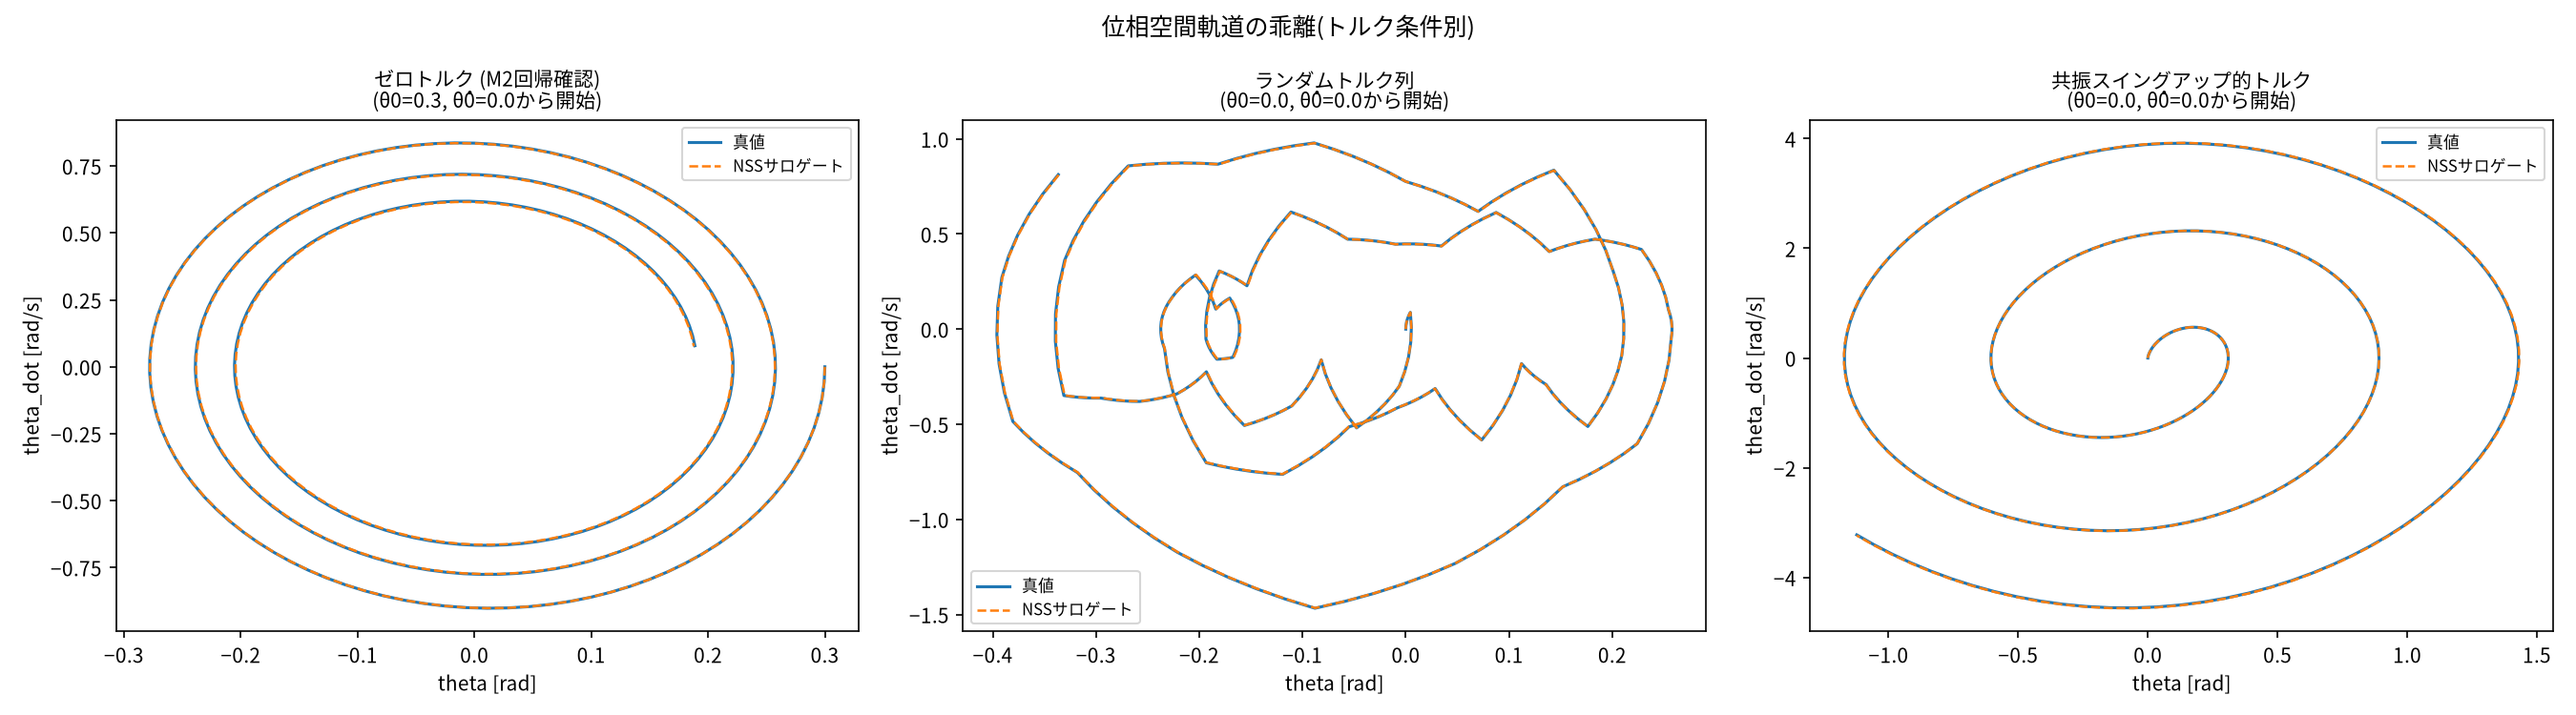
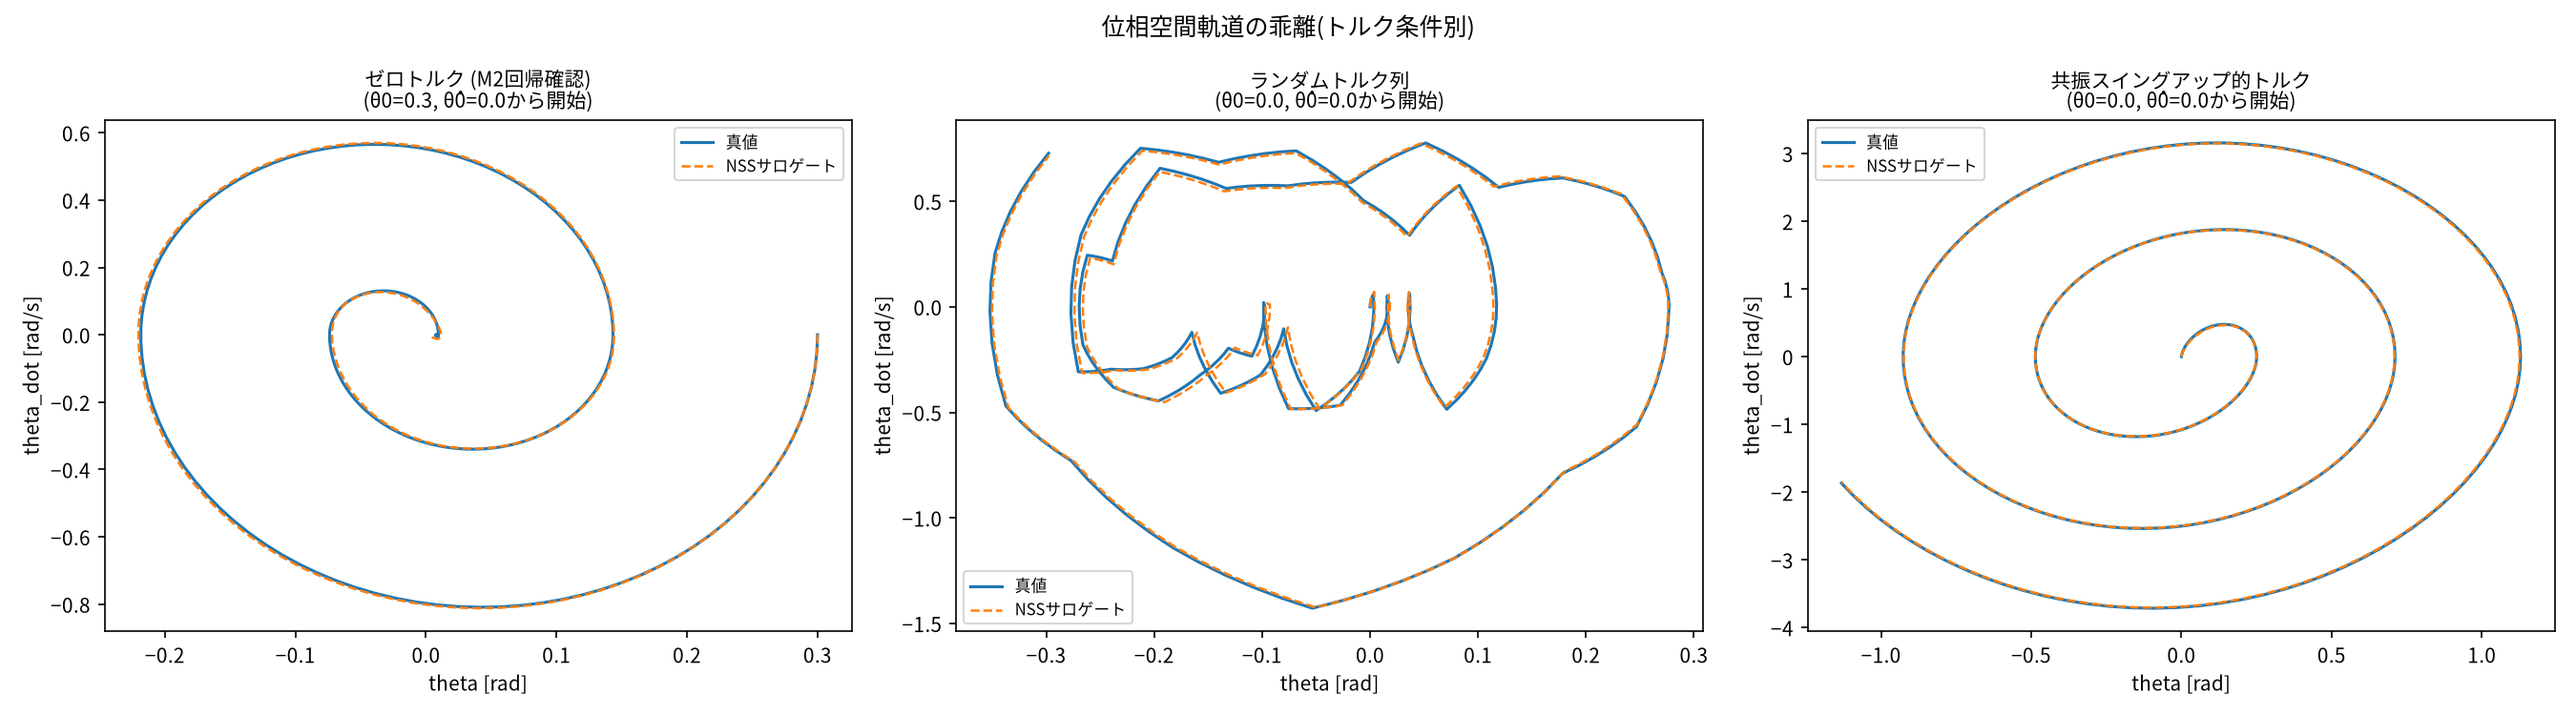
M15: 真の系にクーロン摩擦を追加し、グレーボックスを公平に再検証
M14の「グレーボックスと真のモデルの差は減衰項だけ」という自己循環的な
側面を解消するため、真の系にクーロン摩擦(乾摩擦、θ̇=0で不連続)を追加:
  theta_ddot = -(g/L)sinθ + τ/(mL²) - c·θ̇ - c_coulomb·sign(θ̇)
c_coulomb=0.3 はphysics.pyのモジュール定数とし、全呼び出し元が自動的に
同じ真の系を使うようにした(スクリプトごとの設定漏れによる不整合を防ぐ)。
グレーボックスの既知部分は変更していないため、NNは不連続な摩擦特性を
学ぶ必要がある。

結果(同一学習レシピでの比較):
- 開ループRMSE(t=6s): ブラックボックス 3.43/2.53/2.81 に対し
  グレーボックス 0.57/0.20/0.26(6〜12倍の優位)
- M5グリッドで真値の成功/失敗パターンと一致: 14/18 → 18/18(完全一致)
- M12スイープ: 両者とも15/15一致(摩擦増で失敗領域が明確になったため)
- MPC安定化誤差: グレーボックス0.0518、オラクル0.0699と同等以上

本当の未知項(しかも不連続)があってもグレーボックスの優位性は維持された。
学習された残差はクーロン摩擦のステップ状不連続までほぼ正確に再現している
(outputs/graybox_residual.png)。一方グレーボックスの誤差自体は悪化して
おり(ゼロトルク条件で0.17→0.57)、未知項が難しくなった分のコストは存在する。

摩擦なしの物理を前提としたテストは c_coulomb=0.0 を明示的に渡すよう更新。
M11のヤコビアン診断は滑らかな系についての診断であり、クーロン摩擦は
θ̇=0で微分不可能なため除外するようにした。

Refs #31

Claude-Session: https://claude.ai/code/session_01Rvrf6mcbh1UrexApn66z2b

diff --git a/src/physics.py b/src/physics.py
@@ -1,35 +1,62 @@
-"""振り子(減衰・トルク入力あり)の真値シミュレータ。
+"""振り子(減衰・クーロン摩擦・トルク入力あり)の真値シミュレータ。
 
 状態は x = [theta, theta_dot]。運動方程式:
-    theta_ddot = -(g / L) * sin(theta) - c * theta_dot + tau / (m * L^2)
+    theta_ddot = -(g / L) * sin(theta) - c * theta_dot
+                 - c_coulomb * sign(theta_dot) + tau / (m * L^2)
 
-c=0, tau=0 (デフォルト) で無減衰・無入力の単振り子(M1)に一致する。
-tau はステップ内で一定(ゼロ次ホールド)として扱う。
+M15 (#31) でクーロン摩擦(乾摩擦)項を追加した。これはグレーボックスモデルが
+既知として埋め込んでいない「本当の未知項」であり、不連続なためNNにとっても
+学習が難しい。モジュール定数 C_COULOMB をデフォルト値にすることで、全ての
+呼び出し元が自動的に同じ真の系を使う(スクリプトごとの設定漏れを防ぐ)。
+
+c=0, c_coulomb=0, tau=0 を明示的に渡せば、無減衰・無摩擦・無入力の単振り子
+(M1の系)に一致する。tau はステップ内で一定(ゼロ次ホールド)として扱う。
 """
 import numpy as np
 
 G = 9.81
 L = 1.0
 M = 1.0
-C = 0.0  # デフォルトは無減衰(M1と後方互換)
+C = 0.0  # 粘性減衰のデフォルトは0(M1と後方互換。学習・評価では0.15を明示的に渡す)
+C_COULOMB = 0.3  # クーロン摩擦(M15で追加。真の系の「未知項」として常に有効)
 TAU = 0.0  # デフォルトは無入力(M1/M2と後方互換)
 
 
-def dynamics(state: np.ndarray, c: float = C, tau: float = TAU, m: float = M) -> np.ndarray:
+def friction_acceleration(theta_dot: np.ndarray, c: float, c_coulomb: float) -> np.ndarray:
+    """摩擦による加速度(粘性 + クーロン)。グレーボックスが学ぶべき未知項。"""
+    return -c * theta_dot - c_coulomb * np.sign(theta_dot)
+
+
+def dynamics(
+    state: np.ndarray,
+    c: float = C,
+    tau: float = TAU,
+    m: float = M,
+    c_coulomb: float = C_COULOMB,
+) -> np.ndarray:
     """状態の時間微分 dx/dt を返す。state: shape (..., 2)。tau はスカラーまたは (...,) 形状。"""
     theta, theta_dot = state[..., 0], state[..., 1]
-    theta_ddot = -(G / L) * np.sin(theta) - c * theta_dot + tau / (m * L**2)
+    theta_ddot = (
+        -(G / L) * np.sin(theta)
+        + friction_acceleration(theta_dot, c, c_coulomb)
+        + tau / (m * L**2)
+    )
     return np.stack([theta_dot, theta_ddot], axis=-1)
 
 
 def rk4_step(
-    state: np.ndarray, dt: float, c: float = C, tau: float = TAU, m: float = M
+    state: np.ndarray,
+    dt: float,
+    c: float = C,
+    tau: float = TAU,
+    m: float = M,
+    c_coulomb: float = C_COULOMB,
 ) -> np.ndarray:
     """RK4で1ステップ積分する。tau はこのステップ内で一定とみなす。"""
-    k1 = dynamics(state, c, tau, m)
-    k2 = dynamics(state + 0.5 * dt * k1, c, tau, m)
-    k3 = dynamics(state + 0.5 * dt * k2, c, tau, m)
-    k4 = dynamics(state + dt * k3, c, tau, m)
+    k1 = dynamics(state, c, tau, m, c_coulomb)
+    k2 = dynamics(state + 0.5 * dt * k1, c, tau, m, c_coulomb)
+    k3 = dynamics(state + 0.5 * dt * k2, c, tau, m, c_coulomb)
+    k4 = dynamics(state + dt * k3, c, tau, m, c_coulomb)
     return state + (dt / 6.0) * (k1 + 2 * k2 + 2 * k3 + k4)
 
 
@@ -40,6 +67,7 @@ def simulate(
     c: float = C,
     tau: np.ndarray | float = TAU,
     m: float = M,
+    c_coulomb: float = C_COULOMB,
 ) -> np.ndarray:
     """初期状態から n_steps + 1 点の軌道を生成する。
 
@@ -51,7 +79,7 @@ def simulate(
     traj = [initial_state]
     state = initial_state
     for t in range(n_steps):
-        state = rk4_step(state, dt, c, tau_seq[t], m)
+        state = rk4_step(state, dt, c, tau_seq[t], m, c_coulomb)
         traj.append(state)
     return np.stack(traj, axis=0)
 

diff --git a/src/evaluate_graybox.py b/src/evaluate_graybox.py
@@ -7,6 +7,7 @@
 1. M3の3トルク条件での開ループロールアウトRMSE(t=6s時点)
 2. M12の角速度スイープ(PID回復挙動が真値の失敗パターンと一致するか)
 3. M5の18通りグリッドでのPID安定化成功数
+4. (M15〜) グレーボックスが学習した残差 vs 真の摩擦特性
 """
 import matplotlib
 
@@ -30,6 +31,7 @@ from src.evaluate import (
 )
 from src.evaluate_pid import ANGLE_OFFSETS, VELOCITY_OFFSETS
 from src.model import AutoregressiveModel, GrayBoxNSSModel, NSSModel
+from src.physics import C_COULOMB, friction_acceleration
 from src.pid import angular_error_to_inverted, run_pid_surrogate, run_pid_true
 from src.rollout import rmse_curve, true_rollout
 from src.train import CURRICULUM, DAMPING, SEED, train
@@ -119,6 +121,39 @@ def plot_comparison(
     print(f"saved {OUT_DIR}/graybox_comparison.png")
 
 
+def plot_learned_residual(graybox: GrayBoxNSSModel) -> None:
+    """グレーボックスが学習した残差加速度と、真の摩擦特性を重ねて比較する。
+
+    真の未知項は粘性摩擦 + クーロン摩擦 = -c*theta_dot - c_coulomb*sign(theta_dot) で、
+    theta_dot=0 で不連続。NNがこの不連続をどこまで再現できるかを見る。
+    """
+    theta_dot_grid = np.linspace(-6.0, 6.0, 601)
+    truth = friction_acceleration(theta_dot_grid, DAMPING, C_COULOMB)
+
+    plt.figure(figsize=(7, 4.5))
+    plt.plot(theta_dot_grid, truth, label="真の摩擦特性", linewidth=2)
+    for theta, tau in [(0.0, 0.0), (np.pi, 0.0), (1.5, 3.0)]:
+        states = np.stack(
+            [np.full_like(theta_dot_grid, theta), theta_dot_grid], axis=-1
+        )
+        with torch.no_grad():
+            learned = graybox.residual_acceleration(
+                torch.as_tensor(states, dtype=torch.float32),
+                torch.full((len(theta_dot_grid), 1), tau, dtype=torch.float32),
+            ).numpy()
+        plt.plot(theta_dot_grid, learned, "--", linewidth=1,
+                 label=f"学習された残差 (θ={theta:.1f}, τ={tau:.0f})")
+
+    plt.xlabel("theta_dot [rad/s]")
+    plt.ylabel("残差加速度 [rad/s²]")
+    plt.title("グレーボックスが学習した残差 vs 真の摩擦特性(粘性+クーロン)")
+    plt.legend(fontsize=8)
+    plt.tight_layout()
+    plt.savefig(f"{OUT_DIR}/graybox_residual.png", dpi=150)
+    plt.close()
+    print(f"saved {OUT_DIR}/graybox_residual.png")
+
+
 if __name__ == "__main__":
     torch.manual_seed(SEED)
     np.random.seed(SEED)
@@ -140,6 +175,7 @@ if __name__ == "__main__":
     graybox_grid = grid_errors(graybox)
 
     plot_comparison(true_sweep, blackbox_sweep, graybox_sweep, blackbox_rmse, graybox_rmse)
+    plot_learned_residual(graybox)
 
     print("\n=== 1. 開ループロールアウトRMSE (t=6s) ===")
     for label in blackbox_rmse:

diff --git a/tests/test_physics.py b/tests/test_physics.py
@@ -10,7 +10,7 @@ def test_energy_conservation_undamped():
     initial_state = np.array([1.0, 0.0])  # theta=1rad, theta_dot=0
     dt = 0.01
     n_steps = 2000  # 20秒分
-    traj = simulate(initial_state, dt, n_steps)
+    traj = simulate(initial_state, dt, n_steps, c=0.0, c_coulomb=0.0)
 
     e = energy(traj)
     e0 = e[0]
@@ -22,7 +22,7 @@ def test_energy_conservation_undamped():
 def test_stable_equilibrium_is_fixed_point():
     """theta=0, theta_dot=0 は不動点であること。"""
     initial_state = np.array([0.0, 0.0])
-    traj = simulate(initial_state, dt=0.01, n_steps=100)
+    traj = simulate(initial_state, dt=0.01, n_steps=100, c=0.0, c_coulomb=0.0)
     assert np.allclose(traj, 0.0)
 
 
@@ -31,7 +31,7 @@ def test_energy_monotonically_decreases_when_damped():
     initial_state = np.array([2.0, 1.0])
     dt = 0.01
     n_steps = 2000
-    traj = simulate(initial_state, dt, n_steps, c=C_DAMPED)
+    traj = simulate(initial_state, dt, n_steps, c=C_DAMPED, c_coulomb=0.0)
 
     e = energy(traj)
     assert np.all(np.diff(e) <= 1e-9)
@@ -47,7 +47,7 @@ def test_constant_torque_matches_work_energy_theorem():
     dt = 0.005
     n_steps = 400
     tau = 1.5
-    traj = simulate(initial_state, dt, n_steps, c=0.0, tau=tau)
+    traj = simulate(initial_state, dt, n_steps, c=0.0, tau=tau, c_coulomb=0.0)
 
     e = energy(traj)
     delta_e = e[-1] - e[0]

diff --git a/src/diagnose_linearization.py b/src/diagnose_linearization.py
@@ -35,11 +35,16 @@ REGRESSION_WINDOW = 50
 
 
 def true_jacobian() -> tuple[np.ndarray, np.ndarray]:
-    """真の物理モデル(rk4_step)を有限差分で線形化する。"""
+    """真の物理モデル(rk4_step)を有限差分で線形化する。
+
+    M15 (#31) で追加したクーロン摩擦は theta_dot=0 で微分不可能であり、倒立平衡点
+    (theta_dot=0)での有限差分が発散する。M11のこの診断は「滑らかな系の局所線形化」を
+    比較するものなので、クーロン摩擦は除外して評価する。
+    """
     eps = 1e-6
 
     def f(state: np.ndarray, tau: float) -> np.ndarray:
-        return rk4_step(state, DT, c=DAMPING, tau=tau)
+        return rk4_step(state, DT, c=DAMPING, tau=tau, c_coulomb=0.0)
 
     f0 = f(EQUILIBRIUM_STATE, EQUILIBRIUM_TAU)
     A = np.zeros((2, 2))

diff --git a/tests/test_model_graybox.py b/tests/test_model_graybox.py
@@ -28,7 +28,7 @@ def test_zero_residual_matches_known_physics():
 
         with torch.no_grad():
             predicted = model.step(state, u).numpy()
-        expected = rk4_step(np.array([theta, theta_dot]), dt, c=0.0, tau=tau)
+        expected = rk4_step(np.array([theta, theta_dot]), dt, c=0.0, tau=tau, c_coulomb=0.0)
 
         assert np.allclose(predicted, expected, atol=1e-5)
 

diff --git a/LESSONS.md b/LESSONS.md
@@ -150,10 +150,38 @@ model-based RL文献でいう "objective mismatch problem" の具体的な実例
 - theta を atan2 で毎ステップ畳み込まないため、出力が連続になり、M5/M6で悩まされた
   プロット上のブランチカット由来のジャンプも構造的に発生しない
 
+### M14の留保と、M15での検証
+
+M14の時点では**グレーボックスと真のモデルの差は減衰項 `-c·θ̇` のみ**であり、NNに
+残された仕事は「1次元の線形関数を当てる」ことだけだった(学習された残差は実測で
+全点 `-0.15·θ̇` と誤差±0.007以内)。つまりM14の桁違いの改善は、学習問題をほぼ自明に
+した結果という自己循環的な側面が大きかった。
+
+そこでM15 (#31) では、真の系に**グレーボックスが既知として持たないクーロン摩擦
+(乾摩擦、`-c_coulomb·sign(θ̇)`、θ̇=0で不連続)** を追加し、本当の未知項がある状況で
+再検証した。結果:
+
+| 指標 | ブラックボックス | グレーボックス |
+|---|---|---|
+| 開ループRMSE (ゼロトルク / ランダム / 共振) | 3.43 / 2.53 / 2.81 | **0.57 / 0.20 / 0.26** |
+| M5グリッドで真値の成功/失敗パターンと一致 | 14/18 | **18/18(完全一致)** |
+| M12スイープで真値パターンと一致 | 15/15 | 15/15 |
+| MPC安定化誤差 平均(オラクル=0.0699) | — | **0.0518** |
+
+**本当の未知項(しかも不連続)があってもグレーボックスの優位性は維持された**。NNは
+クーロン摩擦のステップ状の不連続までほぼ正確に再現しており、既知構造を埋め込むことで
+NNが「難しい部分だけ」に集中できるという狙いが機能している。ただしグレーボックスの
+誤差自体は悪化しており(ゼロトルク条件で0.17→0.57)、未知項が難しくなった分の
+コストは確かに存在する。
+
+9. **既知構造の埋め込みは、未知項が難しくなっても有効**(M15)。M14の優位性は
+   「未知項が自明に簡単だったから」ではなく、構造そのものの効果だと確認できた。
+
 ## 今後の課題
 
-- グレーボックス化で残る誤差(共振トルク条件のRMSE 0.54が他条件より大きい)の原因調査。
+- パラメータ誤差(真の系は `L=1.05, m=0.95` だがグレーボックスは `L=1.0, m=1.0` と
+  信じている)がある場合の検証。M15は「知らない項がある」ケースだったが、次は
+  「知っているつもりの項が間違っている」ケース。
 - アンサンブル+不確実性推定により「サロゲートが外挿している領域」を検出できるようにする
   (実機適用時の安全マージン設定に必要)。
-- 真の系の構造が未知/部分的にしか分からない場合にどこまでグレーボックス化できるか
-  (今回は真の方程式が既知という有利な条件だった点に注意)。
+- アクチュエータ遅れのような、状態に現れない内部ダイナミクスがある場合の検証。

diff --git a/README.md b/README.md
@@ -40,6 +40,11 @@ pip install -r requirements.txt
   MPC安定化誤差が0.269→0.0091(オラクルの0.0065とほぼ同等)に改善**し、M1-M13で
   繰り返し現れた失敗モード(エネルギー注入・楽観バイアス・非対称な失敗方向)が
   ほぼ解消。以降のデフォルトモデルは `GrayBoxNSSModel`。
+- **M15** (完了, #31): M14の結果は「グレーボックスと真のモデルの差が減衰項だけ」という
+  自己循環的な側面があったため、真の系にクーロン摩擦(乾摩擦、不連続でグレーボックスが
+  既知として持たない項)を追加して公平に再検証。**本当の未知項がある状況でも
+  グレーボックスの優位性は維持**された(開ループRMSEで6〜12倍、M5グリッドの
+  真値パターン一致で14/18→18/18)。
 
 M1-M9の詳細な要約・横断的な教訓は [LESSONS.md](LESSONS.md) を参照。
 
